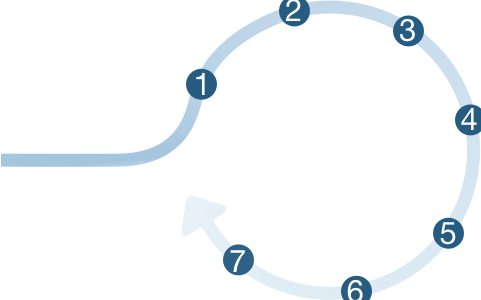
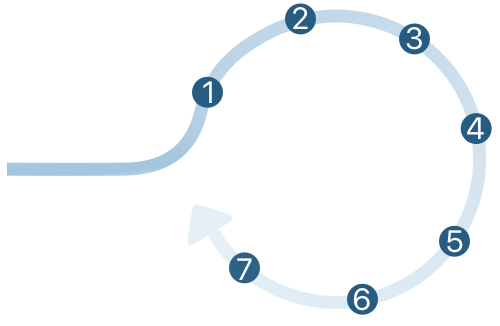
FeatureII: add tail for process part

Changed region(s): [[0.3742, 0.0, 1.0, 1.0], [0.0, 0.21, 0.4678, 0.57]]

diff --git a/source/stylesheets/features/careplans.scss b/source/stylesheets/features/careplans.scss
@@ -836,38 +836,44 @@ a {
 Feature II: Process
 *****************/
 @media only screen and (min-width: 769px) {
-	.part.two .process.desktop {
+	.part.journey .process.desktop {
 		display: block;
 	}
-	.part.two .process.mobile {
+	.part.journey .process.mobile {
 		display: none;
 	}
 }
 @media only screen and (max-width: 768px) {
-	.part.two .process.desktop {
+	.part.journey .process.desktop {
 		display: none;
 	}
-	.part.two .process.mobile {
+	.part.journey .process.mobile {
 		display: block;
 	}
 }
-.part.two .process.desktop {
+.part.journey  {
+	padding: 0;
+}
+.part.journey .text {
+	padding: 40px 10%;
+}
+.part.journey .process.desktop {
 	background-color: #f5f5f5;
 	position: relative;
 	height: 100%;
 	padding-bottom: 200px;
 }
-#feature-article .two .text p {
+#feature-article .journey .text p {
 	margin-bottom: 10px;
 }
-.part.two .process.desktop img {
+.part.journey .process.desktop img {
 	width: 100%;
 	margin-bottom: 150px;
 }
-.part.two .process.desktop .process-box h6 {
+.part.journey .process.desktop .process-box h6 {
 	color: rgb(11, 94, 148);
 }
-.part.two .process.desktop .process-box {
+.part.journey .process.desktop .process-box {
 	position: absolute;
 	width: 45%;
 	background-color: #ffffff;
@@ -875,74 +881,102 @@ Feature II: Process
 	border-radius: 10px;
 	box-shadow: 0px 1px 3px 0px rgba(0, 0, 0, 0.2);
 	z-index: 3;
-	//max-width: 500px;
+	max-width: 500px;
 }
-.part.two .process.desktop .process-box1 {
+.part.journey .process.desktop .process-box1 {
 	left: 10%;
 	top: 3%;
 }
-.part.two .process.desktop .process-box2 {
+.part.journey .process.desktop .process-box2 {
 	right: 10%;
 	top: 18%;
 }
-.part.two .process.desktop .process-box3 {
+.part.journey .process.desktop .process-box3 {
 	left: 10%;
 	top: 33%;
 }
-.part.two .process.desktop .process-box4 {
+.part.journey .process.desktop .process-box4 {
 	right: 10%;
 	top: 48%;
 }
-.part.two .process.desktop .process-box5 {
+.part.journey .process.desktop .process-box5 {
 	left: 10%;
 	top: 63%;
 }
-.part.two .process.desktop .process-box6 {
+.part.journey .process.desktop .process-box6 {
 	right: 10%;
 	top: 78%;
 }
-.part.two .process.desktop .process-box7 {
+.part.journey .process.desktop .process-box7 {
 	left: 10%;
 	bottom: 1%;
 }
-.part.two .process.desktop .connect-box {
-	width: 50%;
+.part.journey .process.desktop .tail {
+	width: 400px;
+	position: absolute;
+	right: 10%;
+	bottom: 1%;
+	margin: 0;
+
+	img {
+		margin: 0;
+	}
+	p {
+		position: absolute;
+		top: 70px;
+		right: 50px;
+		width: 160px;
+		text-align: center;
+	}
+}
+.part.journey .process.desktop .tail-connect {
+	content: ' ';
+	width: calc(80% - 300px);
+	min-width: 0;
+	height: 11px;
+	background-color: #a4c5de;
+	position: absolute;
+	left: 10%;
+	bottom: calc(1% + 120px);
+}
+.part.journey .process.desktop .connect-box {
+	width: 70%;
 	height: calc( 15% + 50px);
 	position: absolute;
 	border: 15px solid rgba(11, 94, 148,.3);
 	border-radius: 25px;
 }
-.part.two .process.desktop .connect-box1 {
+.part.journey .process.desktop .connect-box1 {
 	top: calc( 3% + 100px );
 	border-left: none;
 	border-bottom: none;
 	right: 15%;
 }
-.part.two .process.desktop .connect-box2 {
+.part.journey .process.desktop .connect-box2 {
 	top: calc( 18% + 100px );
 	border-right: none;
 	border-bottom: none;
 	left: 15%;
 }
-.part.two .process.desktop .connect-box3 {
+.part.journey .process.desktop .connect-box3 {
 	top: calc( 33% + 100px );
 	border-left: none;
 	border-bottom: none;
 	right: 15%;
 }
-.part.two .process.desktop .connect-box4 {
+.part.journey .process.desktop .connect-box4 {
 	top: calc( 48% + 100px );
 	border-right: none;
 	border-bottom: none;
 	left: 15%;
 }
-.part.two .process.desktop .connect-box5 {
+.part.journey .process.desktop .connect-box5 {
 	top: calc( 63% + 100px );
 	border-left: none;
 	border-bottom: none;
 	right: 15%;
 }
-.part.two .process.desktop .connect-box6 {
+.part.journey .process.desktop .connect-box6 {
 	top: calc( 78% + 100px );
 	border-right: none;
 	border-bottom: none;
@@ -950,7 +984,7 @@ Feature II: Process
 	left: 15%;
 	height: calc(21% - 100px);
 }
-.part.two .process.desktop .circle {
+.part.journey .process.desktop .circle {
 	position: absolute;
 	width: 50px;
 	height: 50px;
@@ -961,41 +995,41 @@ Feature II: Process
 	font-size: 2rem;
 	z-index: 5;
 }
-.part.two .process.desktop .circle1 {
+.part.journey .process.desktop .circle1 {
 	top: 80px;
 	right: -25px;
 }
-.part.two .process.desktop .circle2 {
+.part.journey .process.desktop .circle2 {
 	top: calc(18% - 25px);
 	right: calc(15% - 18px);
 }
-.part.two .process.desktop .circle3 {
+.part.journey .process.desktop .circle3 {
 	top: calc(33% - 25px);
 	left: calc(15% - 18px);
 }
-.part.two .process.desktop .circle4 {
+.part.journey .process.desktop .circle4 {
 	top: calc(48% - 25px);
 	right: calc(15% - 18px);
 }
-.part.two .process.desktop .circle5 {
+.part.journey .process.desktop .circle5 {
 	top: calc(63% - 25px);
 	left: calc(15% - 18px);
 }
-.part.two .process.desktop .circle6 {
+.part.journey .process.desktop .circle6 {
 	top: calc(78% - 25px);
 	right: calc(15% - 18px);
 }
-.part.two .process.desktop .circle7 {
+.part.journey .process.desktop .circle7 {
 	bottom: calc(1%);
 	left: calc(15% - 18px);
 }
 /************
 Feature II: Process Mobile
 **************/
-.part.two .process.mobile {
+.part.journey .process.mobile {
 	margin-top: 50px;
 }
-.part.two .process.mobile .circle {
+.part.journey .process.mobile .circle {
 	width: 50px;
 	height: 50px;
 	background-color: rgb(11, 94, 148);
@@ -1007,7 +1041,7 @@ Feature II: Process Mobile
 	top: -25px;
 	left: calc(50% - 25px);
 }
-.part.two .process.mobile .process-box {
+.part.journey .process.mobile .process-box {
 	border-top: 1px solid #d1d1d1;
 	padding: 50px 10% 80px 10%;
 	margin-top: -25px;
@@ -1019,14 +1053,14 @@ Feature II: Process Mobile
 }
 
 
-.part.two .process.mobile .section {
+.part.journey .process.mobile .section {
 	position: relative;
 }
-.part.two .process.mobile .process-content {
+.part.journey .process.mobile .process-content {
 	padding: 50px 10%;
 	border-top: 1px solid #898989;
 }
-.part.two .process.mobile .circle {
+.part.journey .process.mobile .circle {
 	width: 50px;
 	height: 50px;
 	background-color: rgb(11, 94, 148);
@@ -1041,6 +1075,7 @@ Feature II: Process Mobile
 	left: calc( 50% - 25px);
 }
 
+
 .part.one > p {
 	margin: 0;
 	a {
@@ -1048,6 +1083,7 @@ Feature II: Process Mobile
 		text-decoration: underline;
 	}
 }
+
 
 
 .social-buttons {
@@ -1166,8 +1202,8 @@ Feature II: Process Mobile
     	box-shadow: 0px 1px 4px 0px rgba(0, 0, 0, 0.3);
     	background-color: #f5f5f5;
 		padding: 20px;
-		margin-left: 0;
-		width: calc(100% - 2.1rem);
+		margin: 0;
+		width: 100%;
 
 		img {
 			border: 1px solid #898989;

diff --git a/source/javascripts/features/careplans/checkboxes.js b/source/javascripts/features/careplans/checkboxes.js
@@ -61,8 +61,10 @@ $(document).ready(function(){
 		    	if($(".title1").is(":visible")) {
 		    		// downscroll code
 			       disableScroll();
-			       $(".title1").hide();
-			       $(".title2").show();
+			       $(".title1").fadeOut('200', function() {
+			       	$(".title2").show();
+			       });
+			       
 			       setTimeout(function(){
 				    //do something special
 				    enableScroll();
@@ -77,6 +79,10 @@ $(document).ready(function(){
 		      }
 		    }
 		    lastScrollTop = st;
+		}
+		else {
+			$(".title2").hide();
+		    $(".title1").show();
 		}
 	});
 
